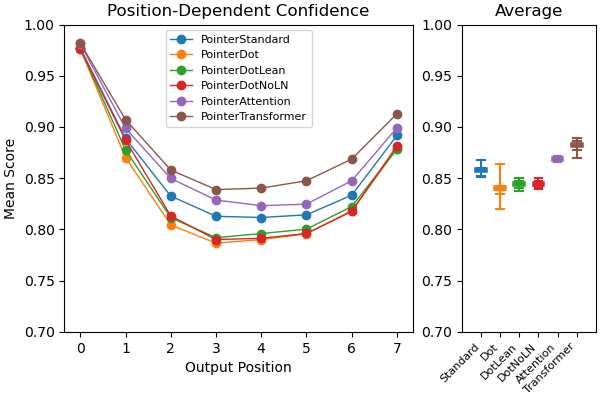
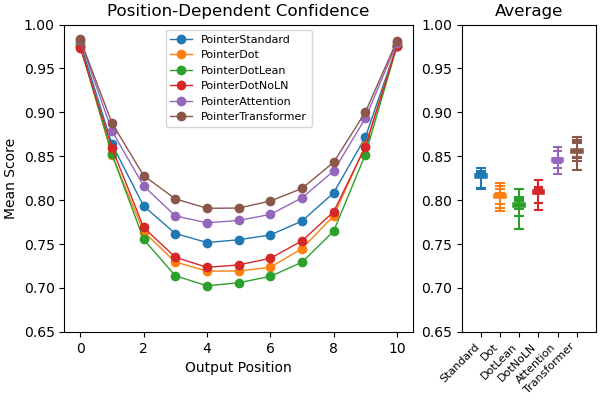
Better TSP SL results!

diff --git a/experiments/ptrArchComp_TSP_SL.py b/experiments/ptrArchComp_TSP_SL.py
@@ -237,7 +237,7 @@ def plotResults(results, args):
     ax[1].set_xticks(range(len(POINTER_METHODS)))
     ax[1].set_xticklabels([pmethod[7:] for pmethod in POINTER_METHODS], rotation=45, ha='right', fontsize=8)
     ax[1].set_ylabel(f'Loss N={numRuns}')
-    ax[1].set_title('Test Performance')
+    ax[1].set_title('Testing')
     ax[1].set_xlim(-1, len(POINTER_METHODS))
 
     if not(args.nosave):
@@ -283,15 +283,14 @@ def plotResults(results, args):
         cdata = torch.nanmean(results['trainTourValidLength'][:,idx], dim=1)
         idx_nan = torch.isnan(cdata)
         cdata.masked_fill_(idx_nan, 0)
-        cdata = sp.signal.savgol_filter(cdata, 20, 1)
+        cdata = sp.signal.savgol_filter(cdata, 50, 1)
         cdata[idx_nan] = torch.nan
         ax[0].plot(range(args.train_epochs), cdata, color=cmap(idx), lw=1.2, label=name)
     ax[0].set_xlabel('Training Epoch')
     ax[0].set_ylabel(f'Tour Length N={numRuns}')
     ax[0].set_title('Training - TourLength (Valid)')
     ax[0].legend(loc='best')
-    ax[0].set_ylim(0.9, 2.5)
-    yMin0, yMax0 = ax[0].get_ylim()
+    ax[0].set_ylim(2.85, 2.975)
     
     xOffset = [-0.2, 0.2]
     get_x = lambda idx: [xOffset[0]+idx, xOffset[1]+idx]
@@ -306,7 +305,6 @@ def plotResults(results, args):
     ax[1].set_ylabel(f'Tour Length N={numRuns}')
     ax[1].set_title('Testing')
     ax[1].set_xlim(-1, len(POINTER_METHODS))
-    # ax[1].set_ylim(0, 0.8)
 
     if not(args.nosave):
         plt.savefig(str(figsPath/getFileName('tourValidLength')))
@@ -323,7 +321,7 @@ def plotResults(results, args):
     ax[0].set_ylabel('Mean Score')
     ax[0].set_title('Position-Dependent Confidence')
     ax[0].legend(loc='best', fontsize=8)
-    ax[0].set_ylim(0.7, 1)
+    ax[0].set_ylim(0.65, 1)
     
     xOffset = [-0.2, 0.2]
     get_x = lambda idx: [xOffset[0]+idx, xOffset[1]+idx]
@@ -337,7 +335,7 @@ def plotResults(results, args):
     ax[1].set_xticklabels([pmethod[7:] for pmethod in POINTER_METHODS], rotation=45, ha='right', fontsize=8)
     ax[1].set_title('Average')
     ax[1].set_xlim(-1, len(POINTER_METHODS))
-    ax[1].set_ylim(0.7, 1)
+    ax[1].set_ylim(0.65, 1)
 
     if not(args.nosave):
         plt.savefig(str(figsPath/getFileName(extra='confidence')))
